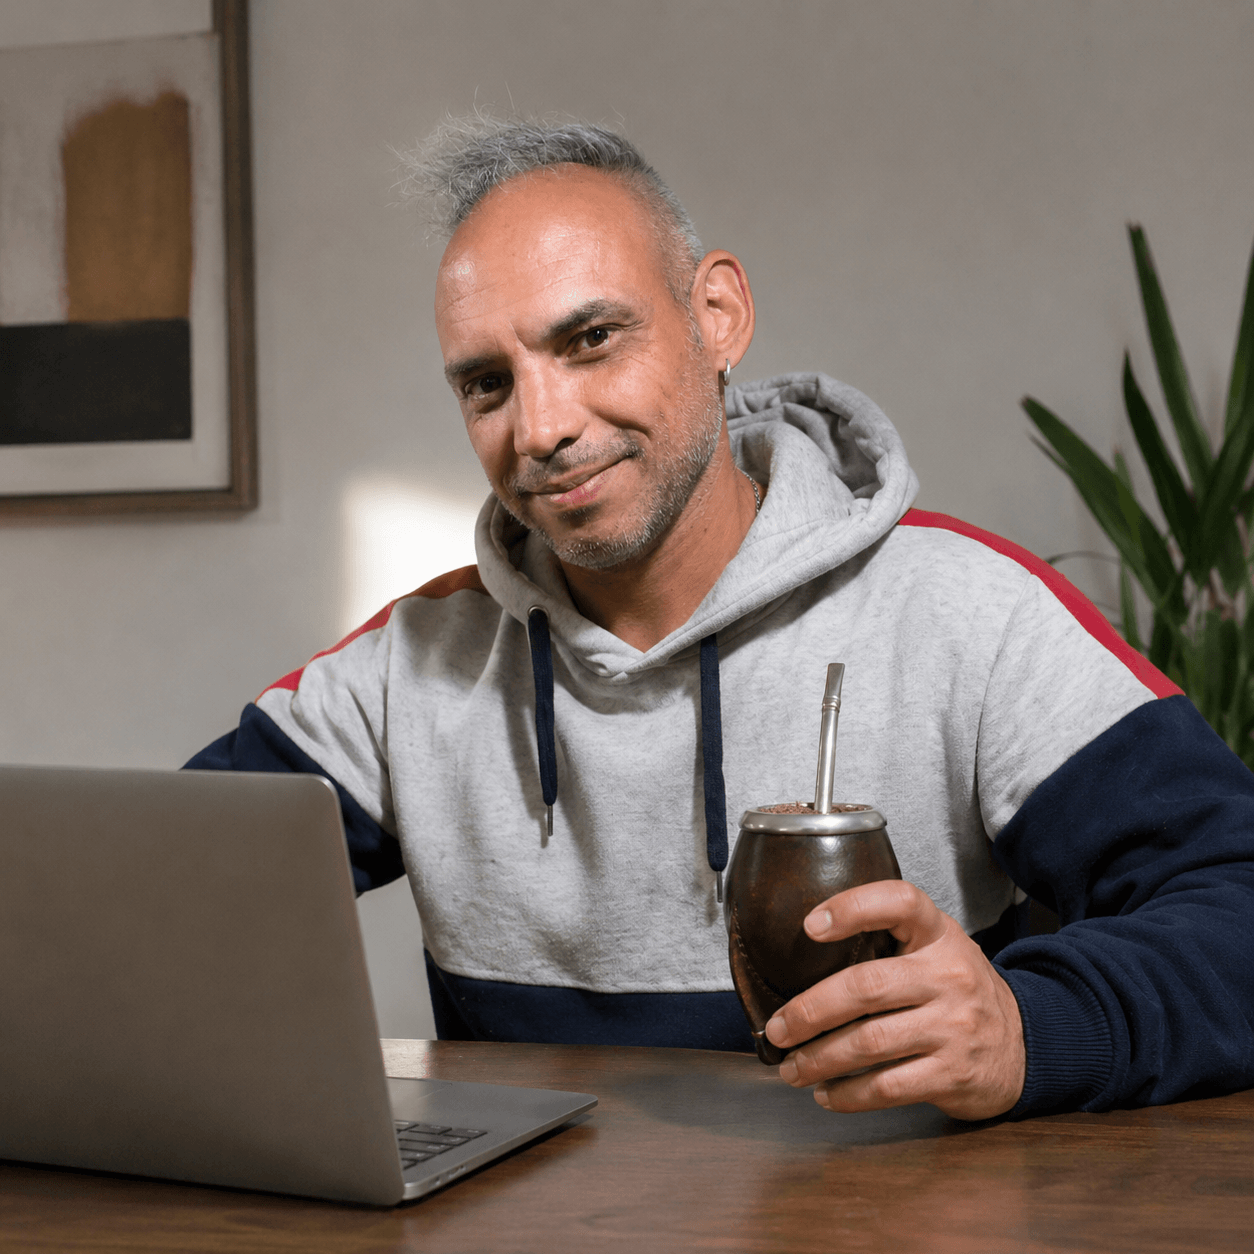
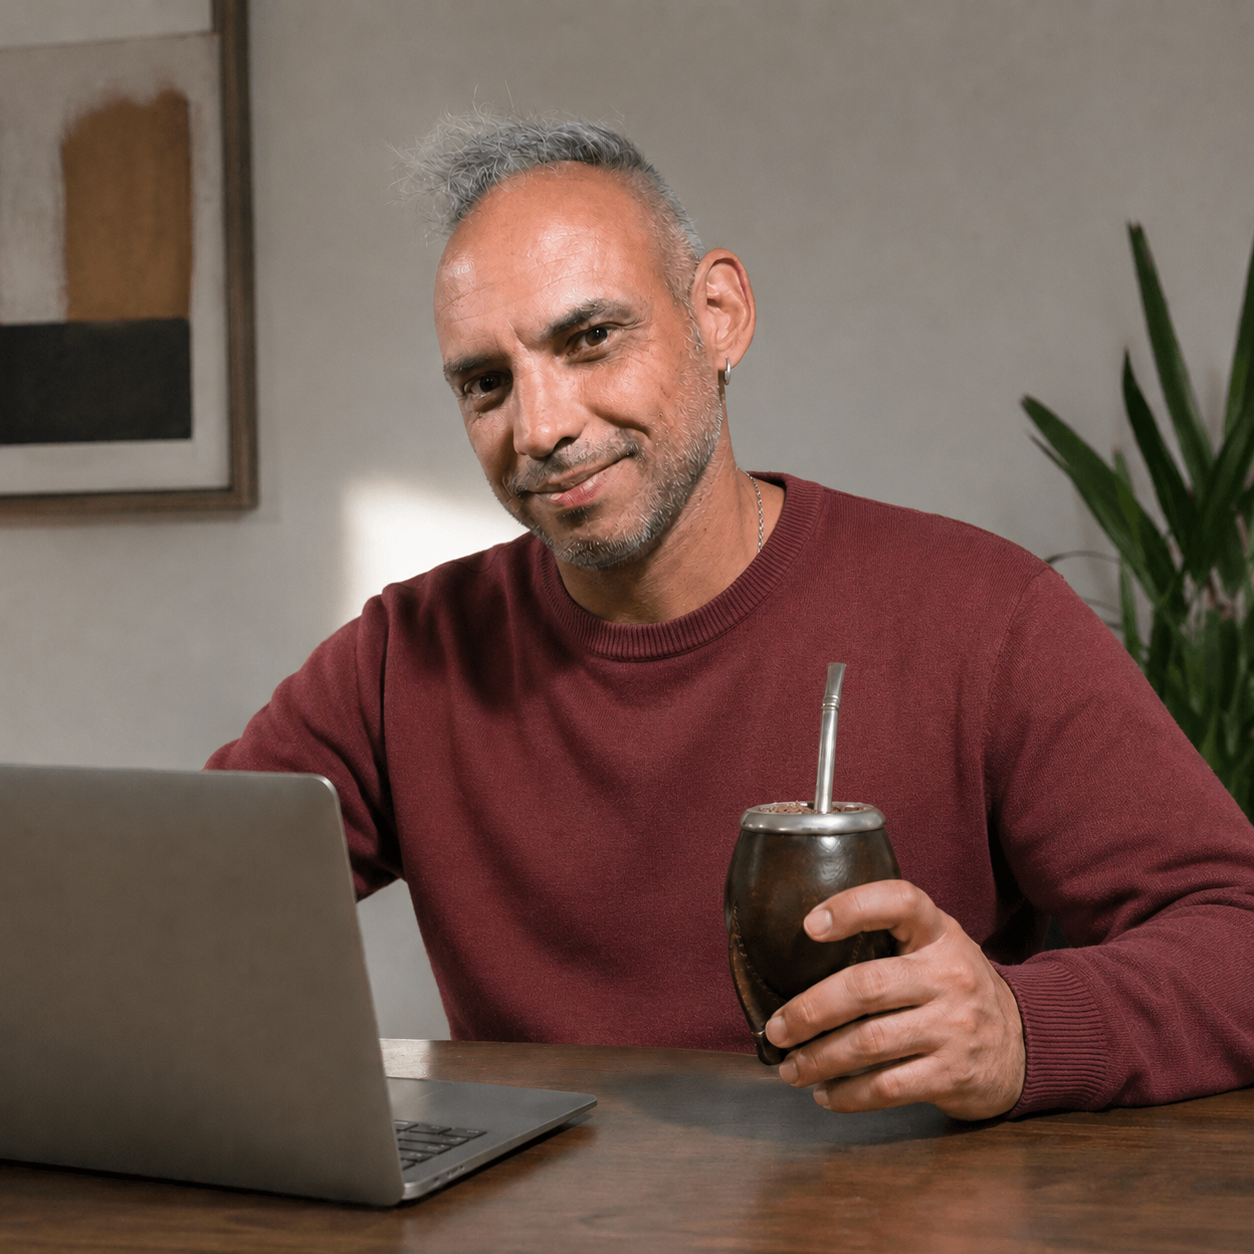
fix font size in cards

diff --git a/styles.css b/styles.css
@@ -560,7 +560,7 @@ nav ul a:hover { color: var(--teal); }
 
 .card-solucion p{
   color:rgba(255,255,255,.85);
-  font-size:1rem;
+  font-size:1.3rem;
   line-height:1.5;
   margin:0;
 }
